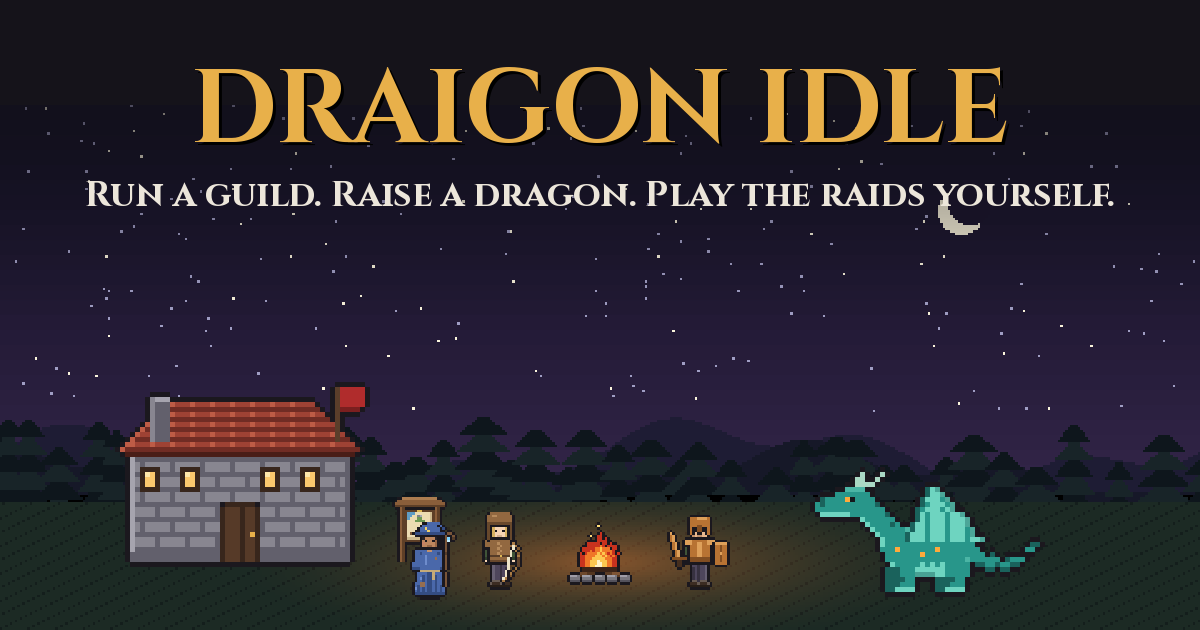
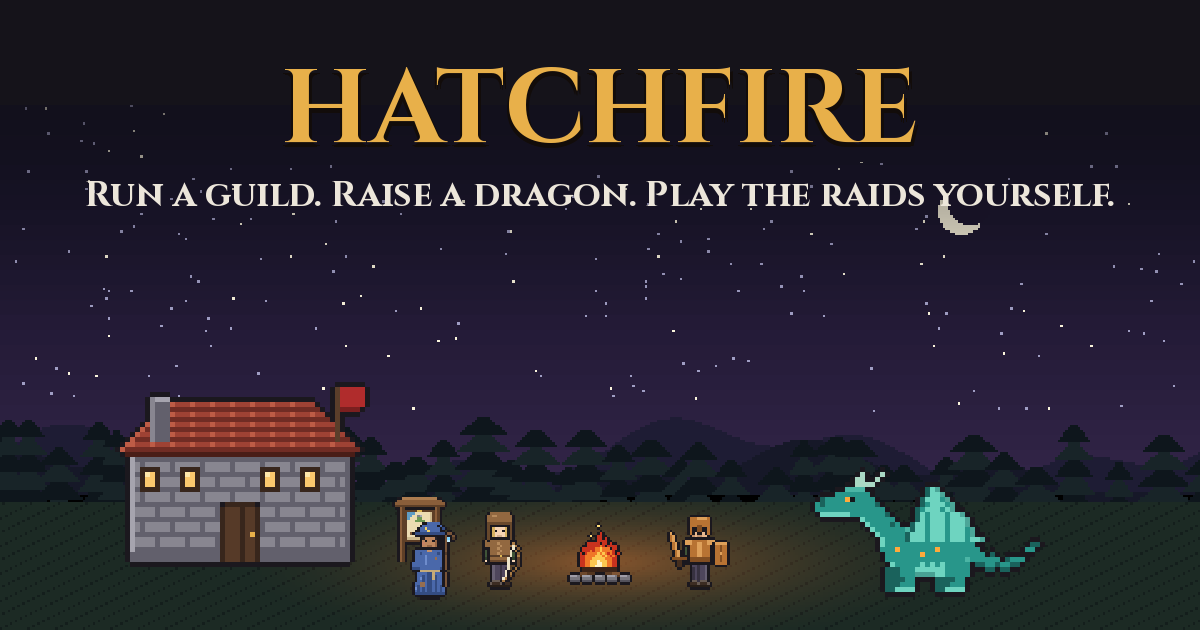
Hatchfire

Changed region(s): [[0.1542, 0.0905, 0.8633, 0.2413]]

diff --git a/src/data/site.ts b/src/data/site.ts
@@ -2,10 +2,10 @@
 // An empty string means "not yet": the pages hide the link or show a
 // fallback in its place.
 export const site = {
-  name: "Draigon Idle",
+  name: "Hatchfire",
   tagline: "Run a guild. Raise a dragon. Fight the bosses yourself.",
   description:
-    "Draigon Idle is an idle guild game for iPhone. Your guild gathers, crafts and sails while you're away. You gear them up, raise dragons and fight the bosses yourself.",
+    "Hatchfire is an idle guild game for iPhone. Your guild gathers, crafts and sails while you're away. You gear them up, raise dragons and fight the bosses yourself.",
   url: "https://draigonidle.com",
 
   // Who makes it.

diff --git a/src/styles/global.css b/src/styles/global.css
@@ -1,4 +1,4 @@
-/* Draigon Idle: the site wears the game's colours. Night sky, wood, gold. */
+/* Hatchfire: the site wears the game's colours. Night sky, wood, gold. */
 
 :root {
   --night: #0e0c1e;

diff --git a/README.md b/README.md
@@ -1,6 +1,6 @@
 # draigonidle.com
 
-The website for **Draigon Idle**, an idle guild game for iPhone.
+The website for **Hatchfire** (called Draigon Idle until October 2026), an idle guild game for iPhone. The domain, the handles and the file names keep the old name.
 
 Built with [Astro](https://astro.build) and deployed to [Cloudflare Pages](https://pages.cloudflare.com/). Pushing to `main` deploys it.
 
